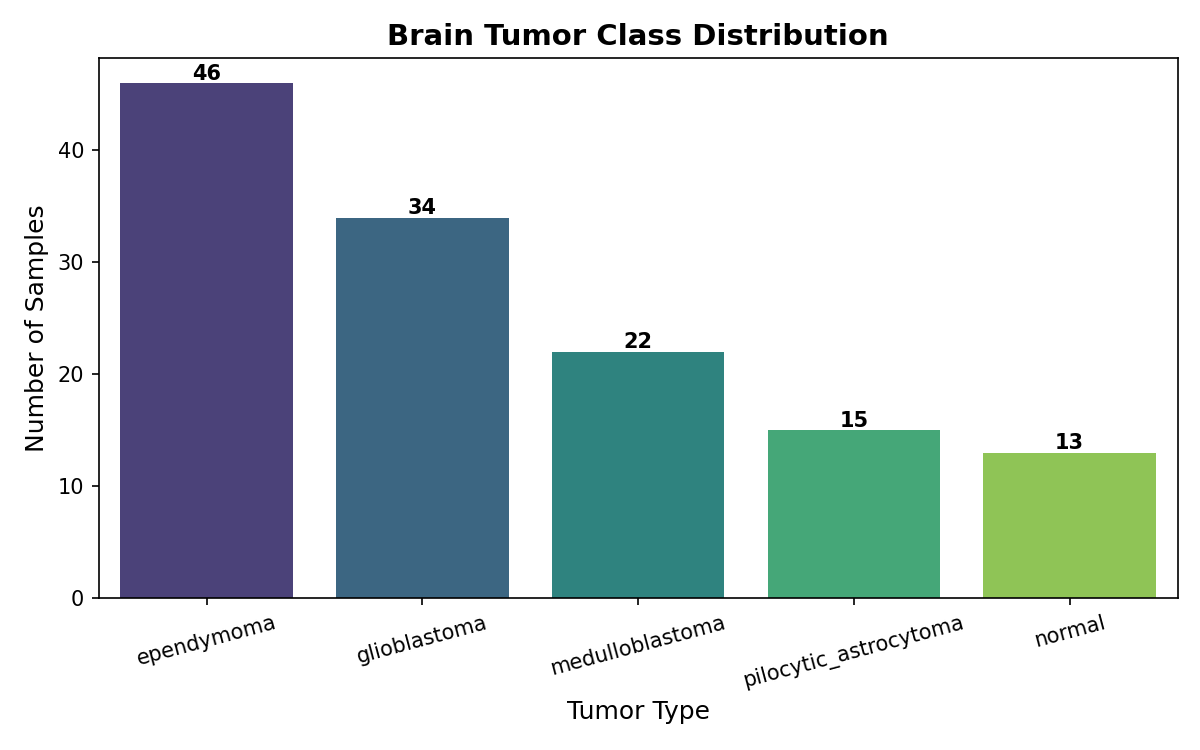
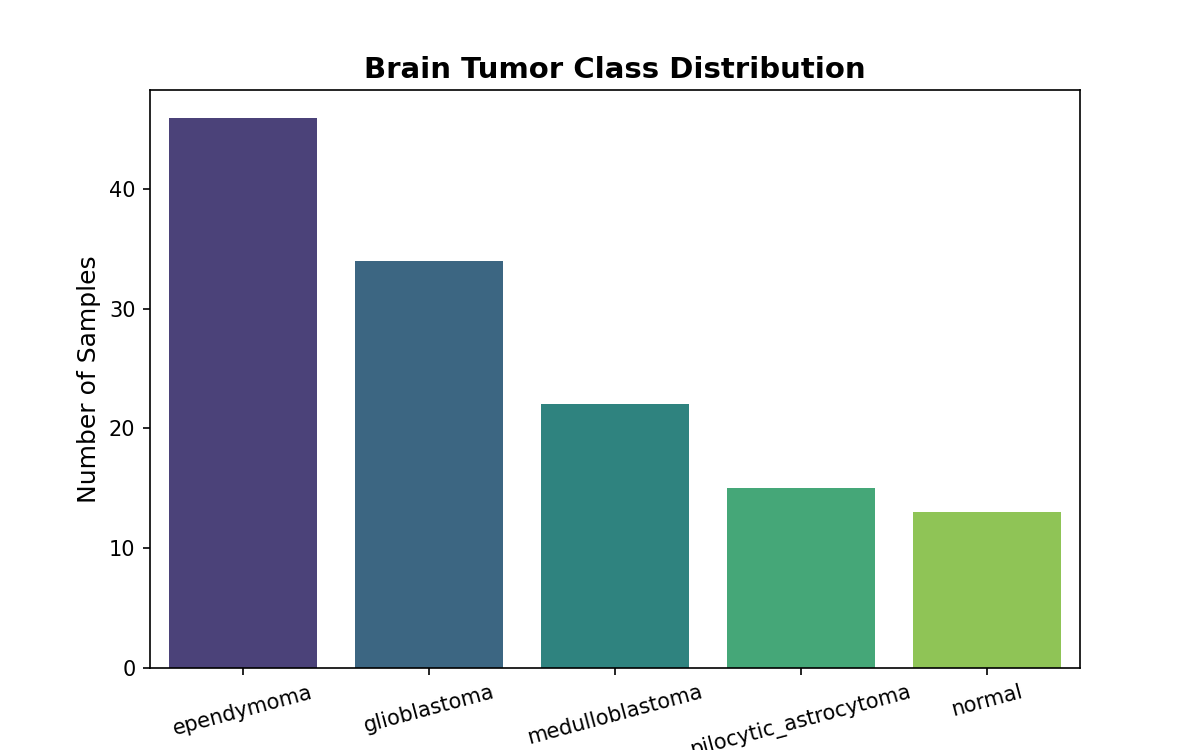
some changes for enhancing

diff --git a/preprocess.py b/preprocess.py
@@ -1,7 +1,5 @@
-# ============================================================
-# STAGE 3: Preprocessing
+# Preprocessing
 # Goal: Prepare the raw data so our ML model can learn from it
-#
 # Steps we do here:
 #   1. Load data
 #   2. Separate features (X) and target label (y)
@@ -10,68 +8,45 @@
 #   5. Scale gene expression values
 #   6. Split into train and test sets
 #   7. Save everything for next stage
-# ============================================================
 
 import pandas as pd
 import numpy as np
 import pickle
 import os
 
-# LabelEncoder  → converts text class names to numbers
-# StandardScaler → scales all gene values to same range
-# train_test_split → splits data into train and test
+# LabelEncoder- converts text class names to numbers
+# StandardScaler- scales all gene values to same range
+# train_test_split- splits data into train and test
 from sklearn.preprocessing import LabelEncoder, StandardScaler
 from sklearn.model_selection import train_test_split
 
-# ---------------------------------------------------------------
-# STEP 1: Load the dataset
+#Load the dataset
 # Same as before — load CSV into a DataFrame
-# ---------------------------------------------------------------
-print("=" * 55)
-print("STEP 1: Loading Data")
-print("=" * 55)
 
 df = pd.read_csv("data/Brain_GSE50161.csv")
 print(f"Dataset loaded: {df.shape[0]} samples, {df.shape[1]} columns")
 
 
-# ---------------------------------------------------------------
-# STEP 2: Separate features (X) and target (y)
-#
-# X = the input to the model = all gene expression values
-# y = what we want to predict = tumor type
-#
-# We also drop the 'samples' column because it's just an ID number
-# — it has no biological meaning for prediction
-# ---------------------------------------------------------------
-print("\n" + "=" * 55)
-print("STEP 2: Separating Features (X) and Target (y)")
-print("=" * 55)
+# Separate features (X) and target (y)
+print("Separating Features (X) and Target (y)")
 
-# y = target column (what we predict)
+# y = target column
 # We extract it BEFORE modifying df
 y_raw = df['type']   # still text labels like "ependymoma"
 
 # X = everything except 'samples' (ID) and 'type' (label)
-X = df.drop(columns=['samples', 'type'])
+X = df.drop(columns=['samples', 'type']) #drop the 'samples' column because it's just an ID number
 
 print(f"X shape (features): {X.shape}")
 print(f"y shape (labels)  : {y_raw.shape}")
 print(f"Unique classes    : {y_raw.unique()}")
 
-
-# ---------------------------------------------------------------
-# STEP 3: Remove AFFX control probes
-#
+# Remove AFFX control probes
 # Columns starting with "AFFX-" are technical control probes
 # used by the Affymetrix chip for quality checking.
 # They are NOT real genes — including them adds noise.
-#
 # We filter them out by keeping only columns that do NOT start with AFFX
-# ---------------------------------------------------------------
-print("\n" + "=" * 55)
-print("STEP 3: Removing AFFX Control Probes")
-print("=" * 55)
+print("Removing AFFX Control Probes")
 
 before = X.shape[1]
 
@@ -86,26 +61,13 @@ print(f"AFFX probes removed    : {before - after}")
 print(f"Columns after removal  : {after}")
 print("These were quality control probes, not real genes")
 
-
-# ---------------------------------------------------------------
-# STEP 4: Encode text labels into numbers
-#
+#Encode text labels into numbers
 # ML models only work with numbers, not text.
-# LabelEncoder assigns a number to each unique class alphabetically:
-#
-#   ependymoma            → 0
-#   glioblastoma          → 1
-#   medulloblastoma       → 2
-#   normal                → 3
-#   pilocytic_astrocytoma → 4
-#
+# LabelEncoder assigns a number to each unique class alphabetically
+
 # fit_transform() = learn the mapping AND apply it in one step
 # We also SAVE the encoder so later we can reverse:
-#   0 → "ependymoma" (for showing predictions in the app)
-# ---------------------------------------------------------------
-print("\n" + "=" * 55)
-print("STEP 4: Encoding Labels (Text → Numbers)")
-print("=" * 55)
+print("Encoding Labels :")
 
 encoder = LabelEncoder()
 y = encoder.fit_transform(y_raw)   # y is now an array of numbers
@@ -118,8 +80,7 @@ print(f"\ny (before): {y_raw.values[:5]}")
 print(f"y (after) : {y[:5]}")
 
 
-# ---------------------------------------------------------------
-# STEP 5: Train/Test Split
+# Train/Test Split
 #
 # We split BEFORE scaling. Why?
 # Because the scaler must learn (fit) only from training data.
@@ -130,10 +91,7 @@ print(f"y (after) : {y[:5]}")
 # stratify=y ensures each tumor type is proportionally represented
 # in both train and test sets.
 # random_state=42 makes the split reproducible (same result every run)
-# ---------------------------------------------------------------
-print("\n" + "=" * 55)
 print("STEP 5: Train/Test Split (80% train, 20% test)")
-print("=" * 55)
 
 X_train, X_test, y_train, y_test = train_test_split(
     X,              # features
@@ -156,9 +114,8 @@ for i, name in enumerate(encoder.classes_):
     print(f"  {name:25s} → train: {train_dist.get(i,0):3d} | test: {test_dist.get(i,0):3d}")
 
 
-# ---------------------------------------------------------------
-# STEP 6: Feature Scaling (StandardScaler)
-#
+#Feature Scaling
+
 # StandardScaler transforms each gene column so that:
 #   mean = 0
 #   standard deviation = 1
@@ -170,7 +127,7 @@ for i, name in enumerate(encoder.classes_):
 #   scaler.transform(X_test)      → applies SAME mean/std to test (no learning)
 #
 # We never fit on test data — that would be cheating.
-# ---------------------------------------------------------------
+
 print("\n" + "=" * 55)
 print("STEP 6: Scaling Gene Expression Values")
 print("=" * 55)
@@ -188,8 +145,7 @@ print(f"After  scaling — Train mean: {X_train_scaled.mean():.4f}, std: {X_trai
 print("After scaling: mean≈0, std≈1 for all genes — fair comparison")
 
 
-# ---------------------------------------------------------------
-# STEP 7: Save everything
+#  Save everything
 #
 # We save:
 #   X_train_scaled, X_test_scaled  → preprocessed feature matrices
@@ -200,10 +156,7 @@ print("After scaling: mean≈0, std≈1 for all genes — fair comparison")
 #
 # pickle.dump() serializes Python objects to binary files
 # This lets us load them in the next scripts without reprocessing
-# ---------------------------------------------------------------
-print("\n" + "=" * 55)
-print("STEP 7: Saving Preprocessed Data")
-print("=" * 55)
+print(" Saving Preprocessed Data:")
 
 os.makedirs("model", exist_ok=True)
 os.makedirs("data/processed", exist_ok=True)
@@ -230,8 +183,7 @@ print("Saved: model/encoder.pkl")
 print("Saved: model/scaler.pkl")
 print("Saved: model/feature_names.pkl")
 
-print("\n✅ Preprocessing complete!")
+print("\nPreprocessing complete")
 print(f"   {X_train_scaled.shape[0]} training samples ready")
 print(f"   {X_test_scaled.shape[0]}  testing samples ready")
 print(f"   {X_train_scaled.shape[1]} gene features")
-print("\n👉 Next: Run 3_train_model.py")

diff --git a/explore_data.py b/explore_data.py
@@ -1,79 +1,45 @@
-# ============================================================
-# STAGE 2: Explore the Data
-# Goal: Understand what's inside our dataset before touching it
-# ============================================================
-
-# --- IMPORTS ---
-# pandas: handles our data table (like Excel in Python)
-# matplotlib & seaborn: for drawing charts
+# Explore the Data
 import pandas as pd
 import matplotlib.pyplot as plt
 import seaborn as sns
 
-
-# STEP 1: Load the dataset
-# pd.read_csv() reads the CSV file and stores it as a DataFrame (df)
-# A DataFrame is like a smart table with rows and columns
+#Load the dataset
 df = pd.read_csv("data/Brain_GSE50161.csv")
 
-
-# STEP 2: Basic shape
-# df.shape returns (number_of_rows, number_of_columns)
-# [0] = rows (samples/patients), [1] = columns (genes + metadata)
-print("=" * 50)
+#Basic shape
 print("DATASET SHAPE")
-print("=" * 50)
 print(f"Total Samples (rows):{df.shape[0]}")
 print(f"Total Columns       :{df.shape[1]}")
 print(f"Gene columns only   : {df.shape[1] - 2}")  # subtract 'samples' and 'type'
 
-# STEP 3: Look at the first few rows
-# head(3) shows the first 3 rows so we understand the structure
-# Notice: first 2 columns are 'samples' (ID) and 'type' (label)
-# Everything else is a gene name with its expression value
-print("\n" + "=" * 50)
+# Look at the first few rows
 print("FIRST 3 ROWS (first 6 columns only)")
-print("=" * 50)
 print(df.iloc[:3, :6])  # iloc = select by position: rows 0-2, cols 0-5
 
-# STEP 4: Check class distribution
-# 'type' column = what kind of tumor (our prediction target)
-# value_counts() counts how many samples per class
-print("\n" + "=" * 50)
+# Check class distribution
 print("CLASS DISTRIBUTION (Tumor Types)")
-print("=" * 50)
 class_counts = df['type'].value_counts()
 print(class_counts)
 imbalance_ratio = class_counts.max() / class_counts.min()
 print(f"\nImbalance Ratio (max/min): {imbalance_ratio:.2f}x")
 print("Note: Ratio > 3 means imbalanced — we must handle this carefully")
 
-# STEP 5: Check for missing values
-# isnull() marks every missing cell as True
-# .sum().sum() counts ALL missing values across entire dataset
-print("\n" + "=" * 50)
+# Check for missing values
 print("MISSING VALUES CHECK")
-print("=" * 50)
 total_missing = df.isnull().sum().sum()
 print(f"Total missing values: {total_missing}")
 if total_missing == 0:
     print("Great! No missing values — dataset is clean.")
 
-# STEP 6: Gene expression value range
-# We look at just the gene columns (drop 'samples' and 'type')
-# describe() gives us stats: min, max, mean, std for all genes
-# We take mean across all genes for a summary view
-print("\n" + "=" * 50)
+# Gene expression value range
 print("GENE EXPRESSION STATISTICS")
-print("=" * 50)
 gene_cols = df.drop(columns=['samples', 'type'])
 print(f"Min expression value  : {gene_cols.values.min():.3f}")
 print(f"Max expression value  : {gene_cols.values.max():.3f}")
 print(f"Mean expression value : {gene_cols.values.mean():.3f}")
 print("(Values are log2 scale — normal range is roughly 2 to 15)")
 
-# STEP 7: Visualize class distribution as a bar chart
-# This gives us a visual feel for how balanced/imbalanced it is
+# Visualize class distribution as a bar chart
 plt.figure(figsize=(8, 5))  # figsize sets the chart size in inches
 
 # countplot draws a bar for each class, counting occurrences
@@ -90,11 +56,6 @@ plt.xlabel("Tumor Type", fontsize=12)
 plt.ylabel("Number of Samples", fontsize=12)
 plt.xticks(rotation=15)  # rotate x labels so they don't overlap
 
-# Add count numbers on top of each bar
-for i, count in enumerate(class_counts.values):
-    plt.text(i, count + 0.3, str(count), ha='center', fontweight='bold')
-
-plt.tight_layout()  # auto-adjusts spacing so nothing gets cut off
 
 # Save the chart to our outputs folder
 import os
@@ -102,16 +63,3 @@ os.makedirs("outputs", exist_ok=True)  # create folder if it doesn't exist
 plt.savefig("outputs/class_distribution.png", dpi=150)
 plt.show()
 print("\nChart saved to outputs/class_distribution.png")
-
-# STEP 8: Show mean expression per class
-# Group samples by tumor type, take mean of all genes per group
-# Then take mean across all genes — gives one number per class
-# This tells us: do different tumor types have different overall expression levels?
-print("\n" + "=" * 50)
-print("MEAN GENE EXPRESSION PER TUMOR TYPE")
-print("=" * 50)
-mean_per_class = df.groupby('type')[gene_cols.columns].mean().mean(axis=1)
-print(mean_per_class.round(4))
-print("\nNote: Similar means = differences are in specific genes, not overall")
-
-print("\n✅ Exploration complete! Move to 2_preprocess.py next.")